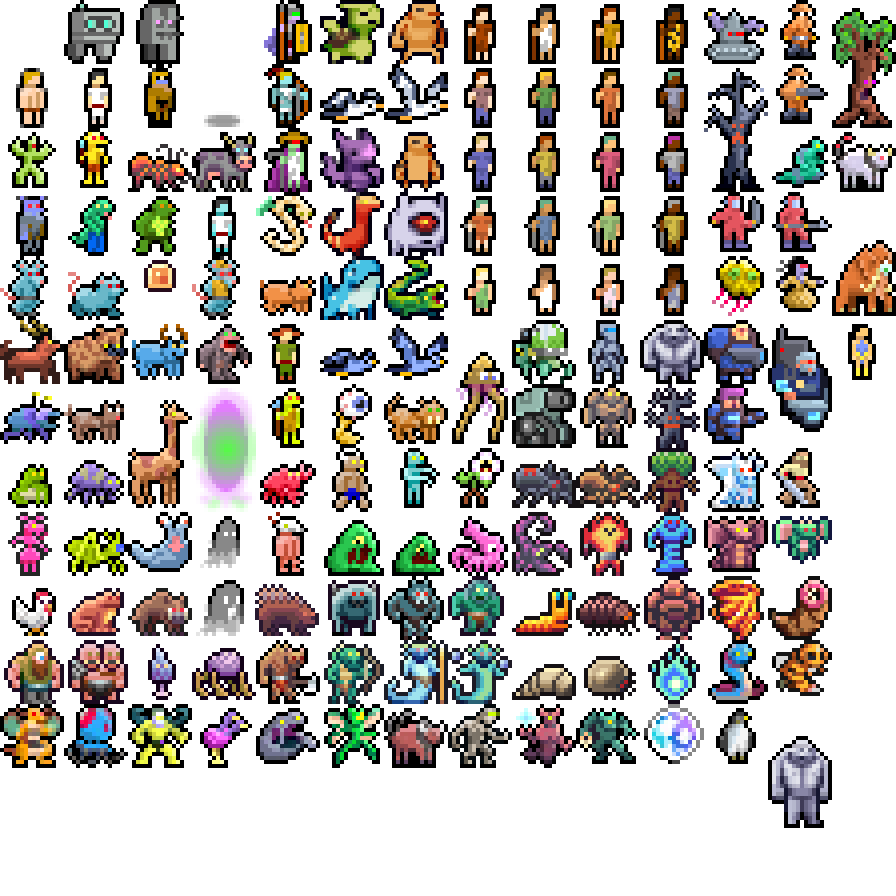
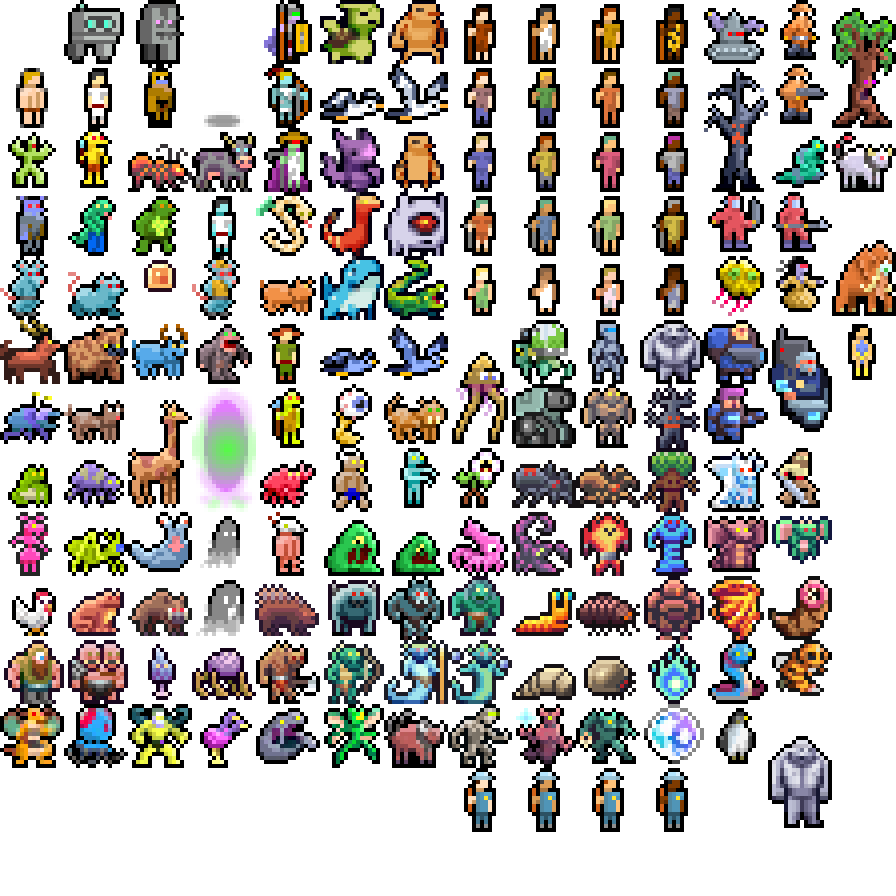
racialized police

Changed region(s): [[0.6562, 0.8438, 0.7812, 0.9375], [0.5, 0.8438, 0.625, 0.9375]]

diff --git a/src/main/kotlin/actors/actors/Villager.kt b/src/main/kotlin/actors/actors/Villager.kt
@@ -22,6 +22,10 @@ import path.Pather
 import world.level.Level
 import world.quests.Quest
 
+interface RacedCitizen {
+    fun setSkin(skin: Villager.Skin)
+}
+
 @Serializable
 class Villager(
     val bedLocation: XY,
@@ -29,11 +33,12 @@ class Villager(
     val isChild: Boolean = false,
     private val initialHomeJob: Job,
     private val initialFulltimeJob: Job? = null,
-) : Citizen() {
+) : Citizen(), RacedCitizen {
 
     enum class Skin(
         val maleGlyphs: Set<Pair<Glyph, Glyph>>,
         val femaleGlyphs: Set<Pair<Glyph, Glyph>>,
+        val guardGlyph: Glyph,
         val childGlyph: Glyph
     ) {
         PALE(
@@ -59,6 +64,7 @@ class Villager(
                 Pair(PORTRAIT_PALE_W_8, PEASANT_PALE_BLOND),
                 Pair(PORTRAIT_PALE_W_9, PEASANT_PALE_GREEN)
             ),
+            PEASANT_PALE_GUARD,
             PEASANT_PALE_CHILD
         ),
         WHITE(
@@ -84,6 +90,7 @@ class Villager(
                 Pair(PORTRAIT_WHITE_W_8, PEASANT_WHITE_GREEN),
                 Pair(PORTRAIT_WHITE_W_9, PEASANT_WHITE_BLOND)
             ),
+            PEASANT_WHITE_GUARD,
             PEASANT_WHITE_CHILD
         ),
         TAN(
@@ -109,6 +116,7 @@ class Villager(
                 Pair(PORTRAIT_TAN_W_8, PEASANT_TAN_GREEN),
                 Pair(PORTRAIT_TAN_W_9, PEASANT_TAN_BLOND)
             ),
+            PEASANT_TAN_GUARD,
             PEASANT_TAN_CHILD
         ),
         BLACK(
@@ -135,6 +143,7 @@ class Villager(
                 Pair(PORTRAIT_BLACK_W_9, PEASANT_BLACK_BLOND)
 
             ),
+            PEASANT_BLACK_GUARD,
             PEASANT_BLACK_CHILD
         )
     }
@@ -180,6 +189,7 @@ class Villager(
         if (newTarget != targetJob) {
             previousTargetJob = targetJob
             targetJob = newTarget
+            log.info("$this changed jobs to $targetJob (was $previousTargetJob)")
         }
     }
 
@@ -193,7 +203,7 @@ class Villager(
         } ?: run { fulltimeJob?.also { setTarget(it) } }
     }
 
-    fun setSkin(skin: Skin) {
+    override fun setSkin(skin: Skin) {
         if (isChild) {
             customGlyph = skin.childGlyph
         } else {

diff --git a/src/main/kotlin/render/tilesets/MobTileSet.kt b/src/main/kotlin/render/tilesets/MobTileSet.kt
@@ -52,21 +52,25 @@ fun ActorTileSet() =
         setTile(Glyph.PEASANT_PALE_BLOND, SimpleTile(this, 7, 2))
         setTile(Glyph.PEASANT_PALE_GREEN, SimpleTile(this, 7, 3))
         setTile(Glyph.PEASANT_PALE_CHILD, SimpleTile(this, 7, 4))
+        setTile(Glyph.PEASANT_PALE_GUARD, SimpleTile(this, 7, 12))
         setTile(Glyph.PEASANT_TAN_DARK, SimpleTile(this, 8, 0))
         setTile(Glyph.PEASANT_TAN_BLOND, SimpleTile(this, 8, 1))
         setTile(Glyph.PEASANT_TAN_RED, SimpleTile(this, 8, 2))
         setTile(Glyph.PEASANT_TAN_GREEN, SimpleTile(this, 8, 3))
         setTile(Glyph.PEASANT_TAN_CHILD, SimpleTile(this, 8, 4))
+        setTile(Glyph.PEASANT_TAN_GUARD, SimpleTile(this, 8, 12))
         setTile(Glyph.PEASANT_WHITE_RED, SimpleTile(this, 9, 0))
         setTile(Glyph.PEASANT_WHITE_DARK, SimpleTile(this, 9, 1))
         setTile(Glyph.PEASANT_WHITE_GREEN, SimpleTile(this, 9, 2))
         setTile(Glyph.PEASANT_WHITE_BLOND, SimpleTile(this, 9, 3))
         setTile(Glyph.PEASANT_WHITE_CHILD, SimpleTile(this, 9, 4))
+        setTile(Glyph.PEASANT_WHITE_GUARD, SimpleTile(this, 9, 12))
         setTile(Glyph.PEASANT_BLACK_DARK, SimpleTile(this, 10, 0))
         setTile(Glyph.PEASANT_BLACK_GREEN, SimpleTile(this, 10, 1))
         setTile(Glyph.PEASANT_BLACK_RED, SimpleTile(this, 10, 2))
         setTile(Glyph.PEASANT_BLACK_BLOND, SimpleTile(this, 10, 3))
         setTile(Glyph.PEASANT_BLACK_CHILD, SimpleTile(this, 10, 4))
+        setTile(Glyph.PEASANT_BLACK_GUARD, SimpleTile(this, 10, 12))
         setTile(Glyph.DOG, SimpleTile(this, 1, 6))
         setTile(Glyph.JERIF, SimpleTile(this, 2, 6))
         setTile(Glyph.MAGIC_PORTAL, SimpleTile(this, 3, 6))

diff --git a/src/main/kotlin/actors/actors/VillageGuard.kt b/src/main/kotlin/actors/actors/VillageGuard.kt
@@ -18,15 +18,17 @@ class VillageGuard(
     val bounds: Rect,
     val villageName: String,
     val flavor: Habitation.Flavor = Habitation.Flavor.HUMAN,
-) : Citizen() {
+) : Citizen(), RacedCitizen {
 
     val maxChaseRange = 60
     val boundsCenter = XY(bounds.x0 + (bounds.x1 - bounds.x0) / 2, bounds.y0 + (bounds.y1 - bounds.y0) / 2)
 
+    var customGlyph: Glyph = Glyph.BLANK
+    override fun glyph() = customGlyph
+
     override fun toString() = name() + "(" + id + ")"
     override val tag = Tag.VILLAGE_GUARD
     override fun name() = "guard"
-    override fun glyph() = Glyph.SHIELD_GUARD
     override fun description() = "A village guard."
     override fun isHuman() = true
     override fun onSpawn() {
@@ -76,4 +78,7 @@ class VillageGuard(
         return null
     }
 
+    override fun setSkin(skin: Villager.Skin) {
+        customGlyph = skin.guardGlyph
+    }
 }

diff --git a/src/main/kotlin/render/tilesets/Glyph.kt b/src/main/kotlin/render/tilesets/Glyph.kt
@@ -92,21 +92,25 @@ enum class Glyph(val tall: Boolean = false) {
     PEASANT_PALE_BLOND,
     PEASANT_PALE_GREEN,
     PEASANT_PALE_CHILD,
+    PEASANT_PALE_GUARD,
     PEASANT_TAN_DARK,
     PEASANT_TAN_BLOND,
     PEASANT_TAN_RED,
     PEASANT_TAN_GREEN,
     PEASANT_TAN_CHILD,
+    PEASANT_TAN_GUARD,
     PEASANT_WHITE_RED,
     PEASANT_WHITE_DARK,
     PEASANT_WHITE_GREEN,
     PEASANT_WHITE_BLOND,
     PEASANT_WHITE_CHILD,
+    PEASANT_WHITE_GUARD,
     PEASANT_BLACK_DARK,
     PEASANT_BLACK_GREEN,
     PEASANT_BLACK_RED,
     PEASANT_BLACK_BLOND,
     PEASANT_BLACK_CHILD,
+    PEASANT_BLACK_GUARD,
     ARIEL,
     MOK,
     CATTLE,

diff --git a/src/main/kotlin/world/gen/features/Habitation.kt b/src/main/kotlin/world/gen/features/Habitation.kt
@@ -1,6 +1,8 @@
 package world.gen.features
 
 import actors.actors.Citizen
+import actors.actors.RacedCitizen
+import actors.actors.VillageGuard
 import actors.actors.Villager
 import actors.factions.HabitationFaction
 import actors.jobs.Job
@@ -147,7 +149,7 @@ sealed class Habitation(
     protected fun addCitizen(citizen: Citizen) {
         citizens.add(citizen.id)
         citizen.habitation = this
-        if (citizen is Villager) {
+        if (citizen is RacedCitizen) {
             val skin = if (Dice.chance(0.8f)) skinSet.random() else Villager.allSkins.random()
             citizen.setSkin(skin)
         }
